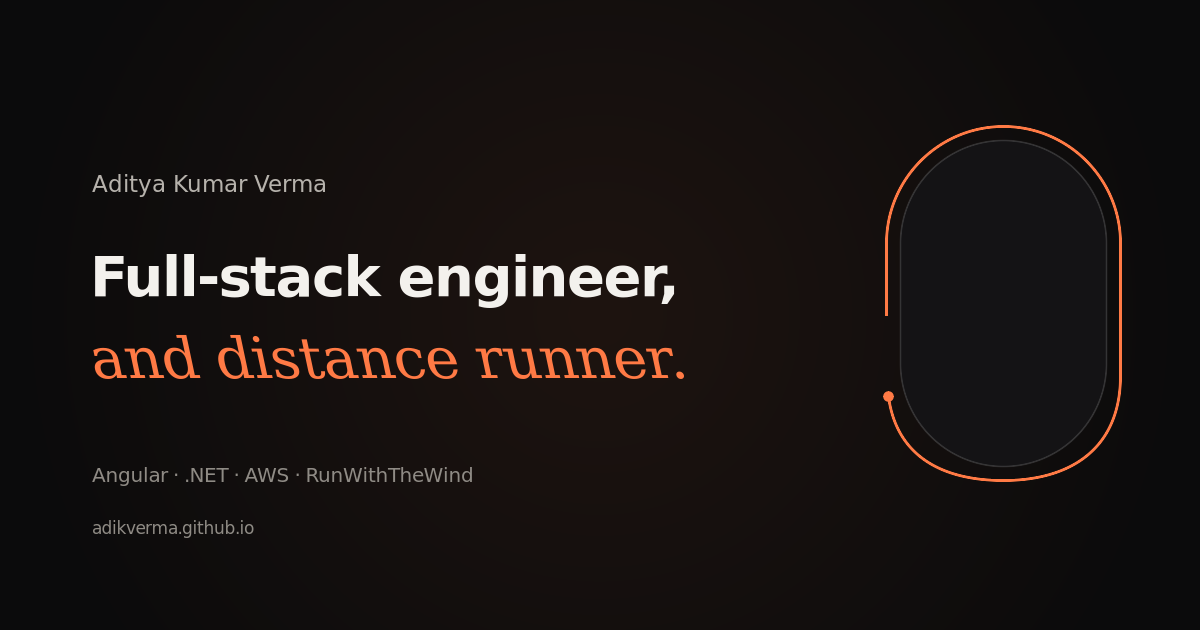
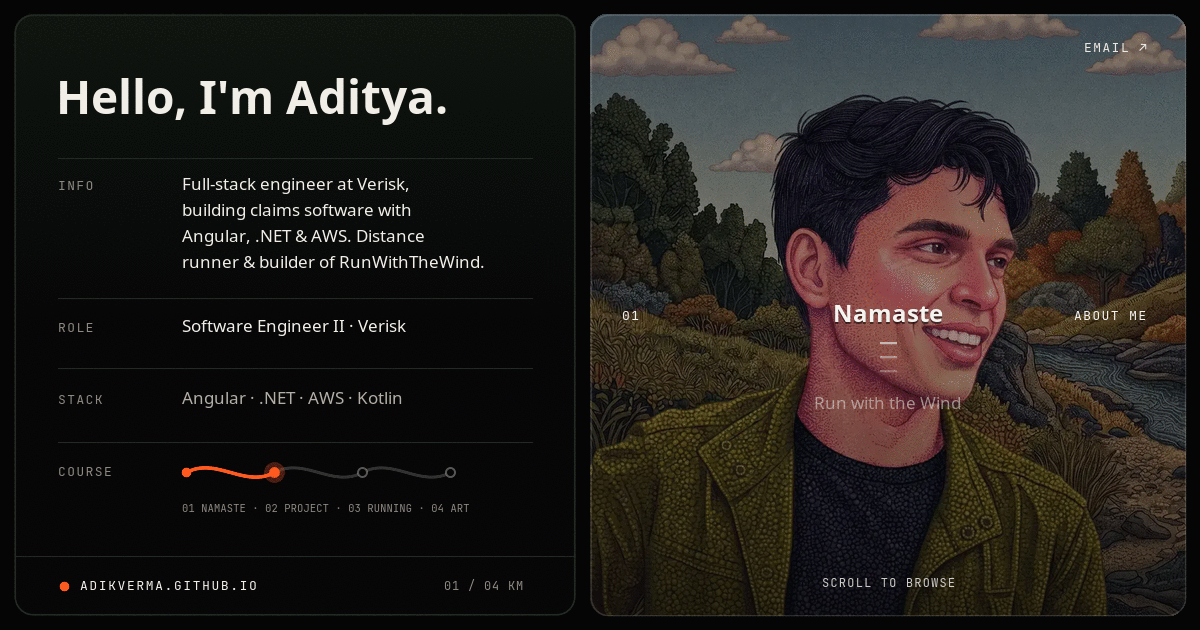
refactor: improve URL routing and site metadata
- Update deep linking to use clean URLs for the root section.
- Refactor state management logic for navigation synchronization.
- Update favicon and OG image assets.
- Add site name and refine SEO meta tags.

diff --git a/assets/js/state.js b/assets/js/state.js
@@ -1,32 +1,34 @@
-export function createState(sections) {
-  const subs = new Set(), rm = matchMedia?.('(prefers-reduced-motion: reduce)'), clamp = (i) => Math.max(0, Math.min(sections.length - 1, i));
-  const fromHash = () => Math.max(0, sections.findIndex((s) => s.id === (location.hash || '').slice(1).trim().toLowerCase()));
-  const init = fromHash(), s = { sections, mode: 'hero', targetIndex: init, activeIndex: init, position: init, listMix: 0, targetListMix: 0, reducedMotion: Boolean(rm?.matches) };
+export function createState(sc) {
+  const L = location, { max, min } = Math, subs = new Set(), rm = matchMedia?.('(prefers-reduced-motion: reduce)'), cl = (i) => max(0, min(sc.length - 1, i));
+  const fromH = () => max(0, sc.findIndex((x) => x.id === (L.hash || '').slice(1).trim().toLowerCase()));
+  const init = fromH(), s = { sections: sc, mode: 'hero', targetIndex: init, activeIndex: init, position: init, listMix: 0, targetListMix: 0, reducedMotion: !!rm?.matches };
   const emit = (r) => subs.forEach((fn) => fn(s, r));
-  const syncHash = (i) => { const h = `#${sections[i].id}`; if (location.hash !== h) try { history.replaceState(null, '', h); } catch {} };
+  const snap = () => { s.position = s.targetIndex; s.listMix = s.targetListMix; };
+  const syncH = (i) => { const h = i ? `#${sc[i].id}` : ''; if (L.hash !== h) try { history.replaceState(null, '', h || L.pathname + L.search); } catch {} };
+  if (!init && L.hash) syncH(0);
   const enterList = () => (s.mode === 'list' ? false : ((s.mode = 'list'), (s.targetListMix = 1), emit('mode'), true));
   const openSection = (i, o = {}) => {
-    const n = clamp(i), ch = n !== s.activeIndex, was = s.mode === 'list';
+    const n = cl(i), ch = n !== s.activeIndex, was = s.mode === 'list';
     s.mode = 'hero'; s.targetIndex = s.activeIndex = n; s.targetListMix = 0;
-    if (o.instant || s.reducedMotion) { s.position = n; s.listMix = 0; }
-    if (!o.fromHash) syncHash(n);
+    if (o.instant || s.reducedMotion) snap();
+    if (!o.fromHash) syncH(n);
     emit(ch ? 'open-section' : was ? 'mode' : 'focus-section');
   };
   const stepList = (d) => {
     if (s.mode === 'hero') return enterList();
-    const n = clamp(s.targetIndex + d);
+    const n = cl(s.targetIndex + d);
     if (n === s.targetIndex) return false;
     s.targetIndex = n; if (s.reducedMotion) s.position = n;
     emit('step'); return true;
   };
   const jumpList = (i) => {
-    const n = clamp(i), was = s.mode === 'hero';
+    const n = cl(i), was = s.mode === 'hero';
     s.mode = 'list'; s.targetListMix = 1;
     if (n === s.targetIndex && !was) return false;
-    s.targetIndex = n; if (s.reducedMotion) { s.position = n; s.listMix = 1; }
+    s.targetIndex = n; if (s.reducedMotion) snap();
     emit('step'); return true;
   };
-  addEventListener('hashchange', () => openSection(fromHash(), { fromHash: true }));
-  rm?.addEventListener?.('change', (e) => { s.reducedMotion = e.matches; if (e.matches) { s.position = s.targetIndex; s.listMix = s.targetListMix; emit('reduced-motion'); } });
+  addEventListener('hashchange', () => openSection(fromH(), { fromHash: true }));
+  rm?.addEventListener?.('change', (e) => { s.reducedMotion = e.matches; if (e.matches) { snap(); emit('reduced-motion'); } });
   return { state: s, subscribe: (fn) => (subs.add(fn), () => subs.delete(fn)), enterList, openSection, stepList, jumpList };
 }

diff --git a/index.html b/index.html
@@ -17,16 +17,21 @@
 
     <!-- Open Graph -->
     <meta property="og:type" content="website" />
+    <meta property="og:site_name" content="Aditya Kumar Verma" />
     <meta property="og:url" content="https://adikverma.github.io/" />
     <meta property="og:title" content="Aditya Kumar Verma · Software Engineer" />
     <meta
       property="og:description"
       content="Aditya Kumar Verma — full-stack engineer (Angular, .NET, AWS) and distance runner; builder of RunWithTheWind."
     />
-    <meta property="og:image" content="https://adikverma.github.io/assets/img/og-card.png?v=20261122" />
+    <meta property="og:image" content="https://adikverma.github.io/assets/img/og-card.jpg?v=20261123" />
+    <meta property="og:image:type" content="image/jpeg" />
     <meta property="og:image:width" content="1200" />
     <meta property="og:image:height" content="630" />
-    <meta property="og:image:alt" content="Aditya Kumar Verma — Full-stack engineer and distance runner." />
+    <meta
+      property="og:image:alt"
+      content="Aditya Kumar Verma — Split-screen portfolio featuring Namaste, Run with the Wind, Running, and Art."
+    />
 
     <!-- Twitter -->
     <meta name="twitter:card" content="summary_large_image" />
@@ -35,9 +40,11 @@
       name="twitter:description"
       content="Aditya Kumar Verma — full-stack engineer (Angular, .NET, AWS) and distance runner; builder of RunWithTheWind."
     />
-    <meta name="twitter:image" content="https://adikverma.github.io/assets/img/og-card.png?v=20261122" />
+    <meta name="twitter:image" content="https://adikverma.github.io/assets/img/og-card.jpg?v=20261123" />
 
-    <link rel="icon" type="image/svg+xml" href="/assets/img/favicon.svg?v=20261122" />
+    <link rel="icon" type="image/svg+xml" href="/assets/img/favicon.svg?v=20261123" />
+    <link rel="icon" type="image/png" sizes="32x32" href="/assets/img/favicon-32.png?v=20261123" />
+    <link rel="apple-touch-icon" sizes="180x180" href="/assets/img/apple-touch-icon.png?v=20261123" />
 
     <!-- Preload critical fonts & first section image only -->
     <link
@@ -602,6 +609,6 @@
       </section>
     </main>
 
-    <script type="module" src="/assets/js/main.js?v=20261122"></script>
+    <script type="module" src="/assets/js/main.js?v=20261123"></script>
   </body>
 </html>

diff --git a/404.html b/404.html
@@ -5,8 +5,10 @@
     <meta name="viewport" content="width=device-width, initial-scale=1" />
     <title>404 · Aditya Kumar Verma</title>
     <meta name="robots" content="noindex" />
-    <link rel="icon" type="image/svg+xml" href="/assets/img/favicon.svg?v=20261122" />
-    <link rel="stylesheet" href="/assets/css/tokens.css?v=20261122" />
+    <link rel="icon" type="image/svg+xml" href="/assets/img/favicon.svg?v=20261123" />
+    <link rel="icon" type="image/png" sizes="32x32" href="/assets/img/favicon-32.png?v=20261123" />
+    <link rel="apple-touch-icon" sizes="180x180" href="/assets/img/apple-touch-icon.png?v=20261123" />
+    <link rel="stylesheet" href="/assets/css/tokens.css?v=20261122c" />
     <link rel="stylesheet" href="/assets/css/error.css?v=20261122" />
   </head>
   <body>

diff --git a/assets/js/render-loop.js b/assets/js/render-loop.js
@@ -21,7 +21,7 @@ export function createRenderLoop({ store, shell, rightPanel: rp, stageCards, lef
 
   const cards = s.sections.map((sec, i) => {
     const a = document.createElement('a'), scrim = document.createElement('div'), img = sec.media.querySelector('img');
-    a.className = 'card-item'; a.href = `#${sec.id}`; a.setAttribute('aria-label', `Open ${sec.title}`);
+    a.className = 'card-item'; a.href = i ? `#${sec.id}` : './'; a.setAttribute('aria-label', `Open ${sec.title}`);
     if (img && sec.focus) img.style.objectPosition = sec.focus;
     scrim.className = 'card-scrim'; scrim.setAttribute('aria-hidden', 'true');
     a.append(sec.media, scrim); stageCards.append(a);

diff --git a/DESIGN.md b/DESIGN.md
@@ -36,7 +36,7 @@ This document specifies the layout grid, two-state machine, gesture normalizatio
                                                     (clamped 0..3, no bounce)
 ```
 
-- **Deep linking:** Hash-only (`#about`, `#run-with-the-wind`, `#running`, `#art`) updated via `history.replaceState` when opening a section; `hashchange` opens the target section directly in HERO state. Unknown hashes resolve to `about`. LIST state is never stored in the URL.
+- **Deep linking:** Clean root URL (no `#about`) for the base landing section; hash-only (`#run-with-the-wind`, `#running`, `#art`) updated via `history.replaceState` when opening other sections; `hashchange` opens the target section directly in HERO state. `#about` and unknown hashes resolve cleanly back to the root URL. LIST state is never stored in the URL.
 
 ---
 
